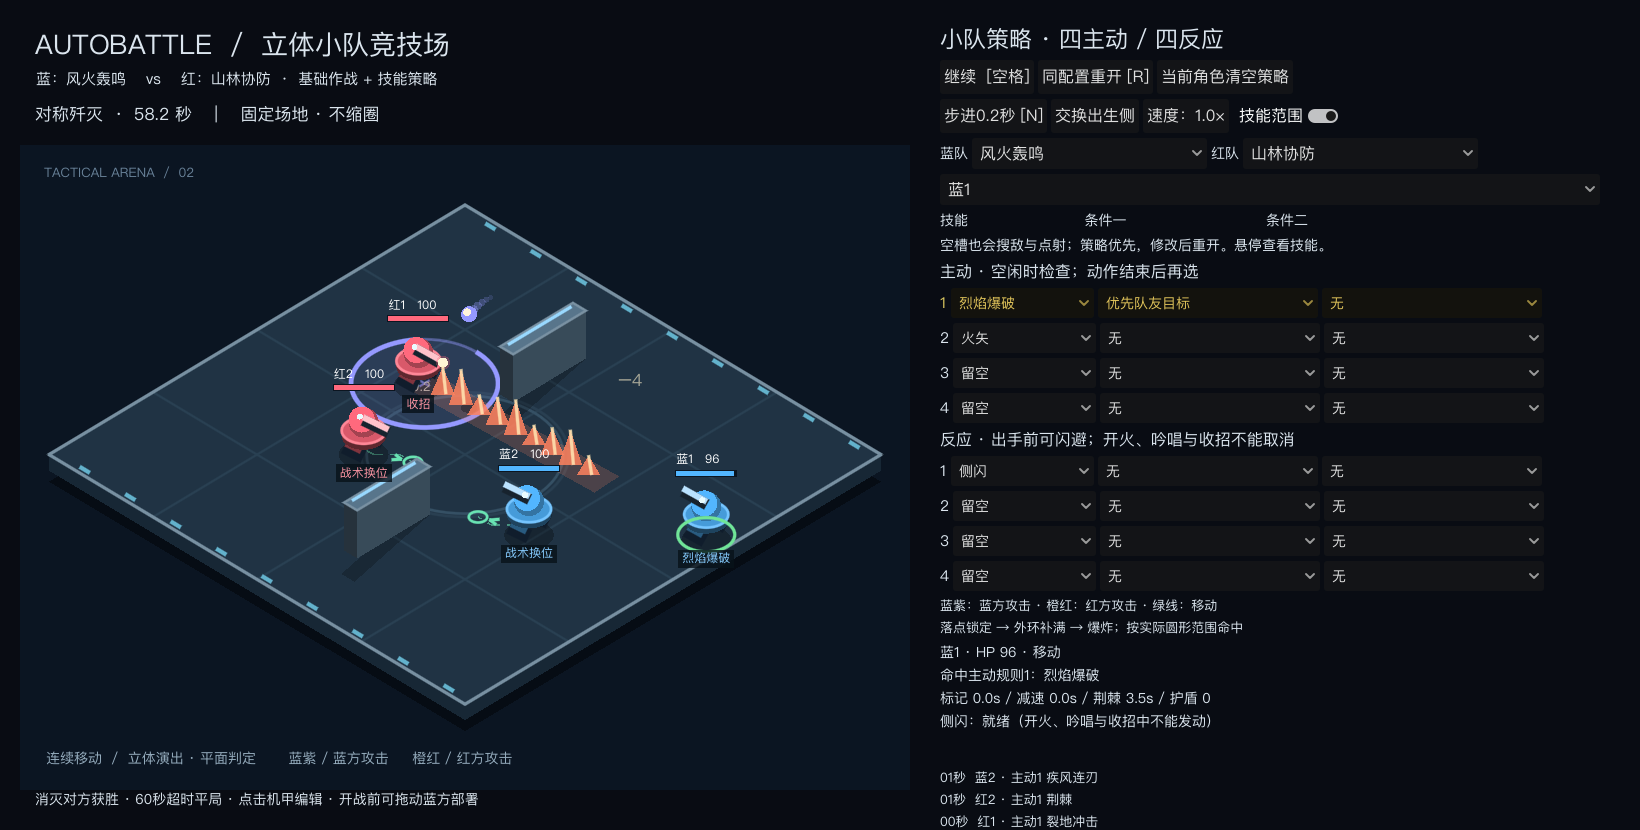
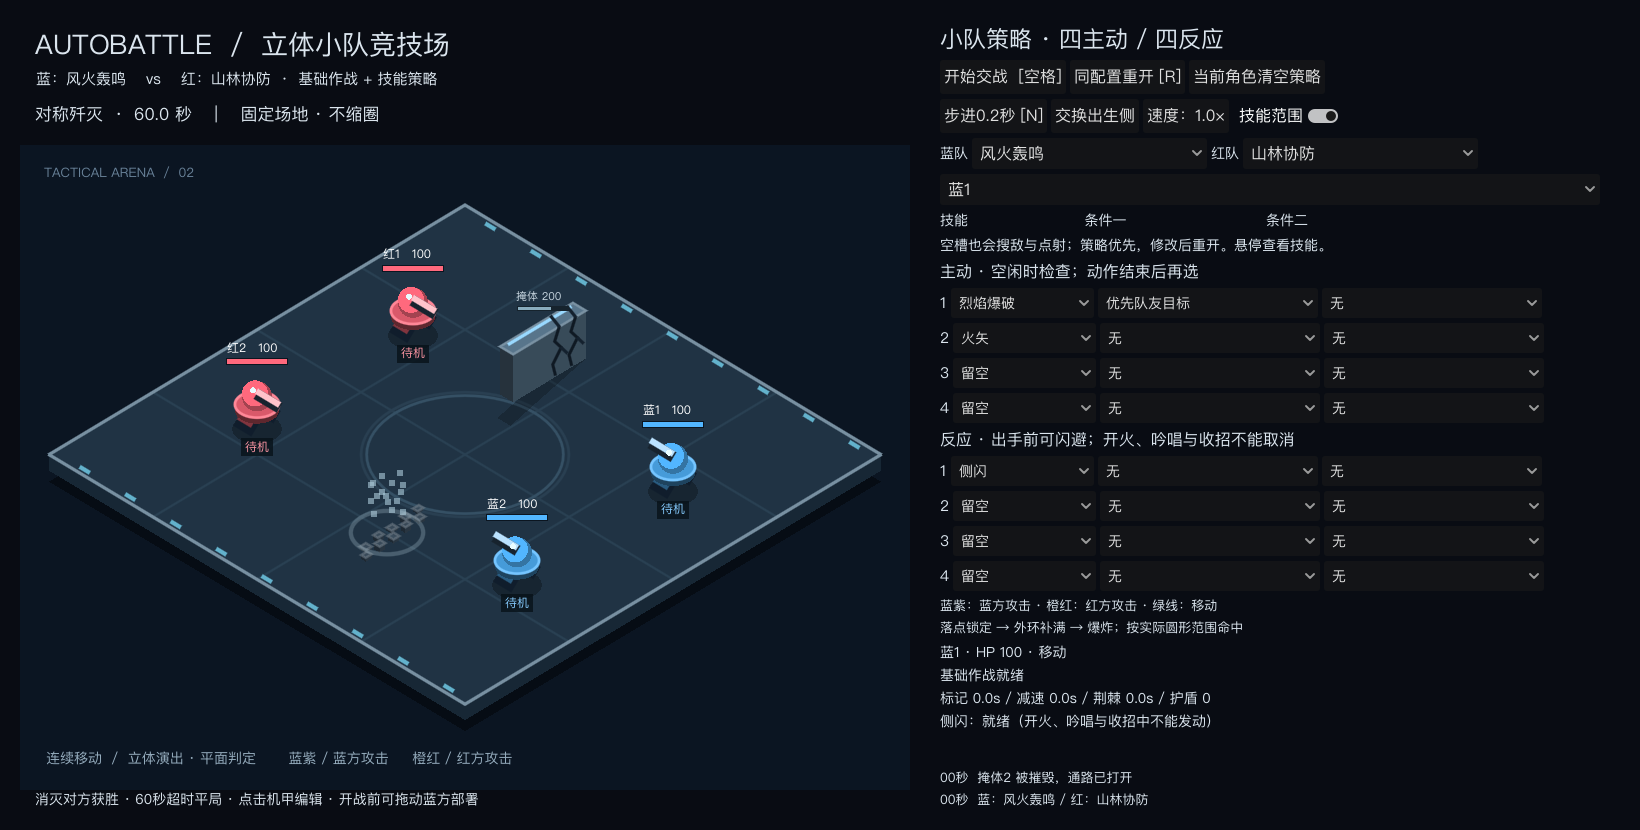
加入300血可破坏墙体、分级裂纹与通路更新

diff --git a/README.md b/README.md
@@ -23,6 +23,14 @@
 
 验证：`--view-test` 检查投影往返、视觉高度、范围映射和拖动；`--view-preview=air|blast|laser|earth` 从真实对局中捕获对应效果到 `preview.png` 后退出。
 
+## 可破坏掩体
+
+- 每块墙300HP；剩余≤200显示裂纹，≤100显示更密更深的裂纹，0HP崩碎并留下无碰撞碎石。
+- 直射弹、霰弹、岩弹与激光被墙截停并按本次直击伤害扣墙血；打碎墙的攻击仍被墙挡住，后续攻击才能穿过。
+- 抛射可越过掩体，爆炸范围与墙体相交时也对墙造成一次伤害。墙体无阵营，不受标记加成、荆棘持续伤害、治疗或角色撞击伤害。
+- 同一模拟步中的墙体伤害统一结算，破坏后重建寻路并清空旧路径；重开恢复两堵300HP墙。机器人仍按原策略打敌人，不会自动把墙当作优先目标。
+- `--wall-test` 验证血量阶段、弹道遮挡、破坏后射线/通行/导航、激光单次伤害、范围伤害及重开；`--wall-preview` / `--wall-broken-preview` 可查看裂纹和破碎状态。
+
 ## 圆环技能时序
 
 抛射轰击改为 **单个半径64像素的圆形落点**，不再是三处散布，且不追踪移动目标。
